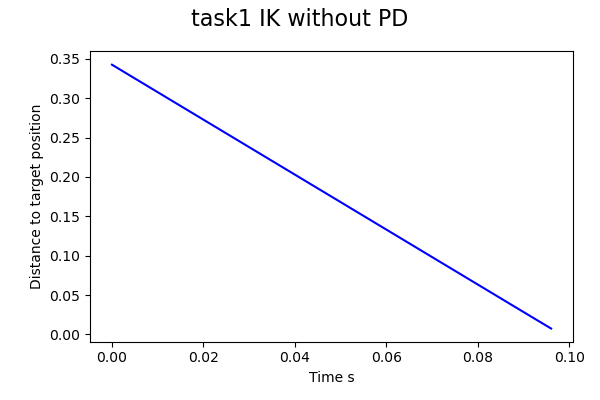
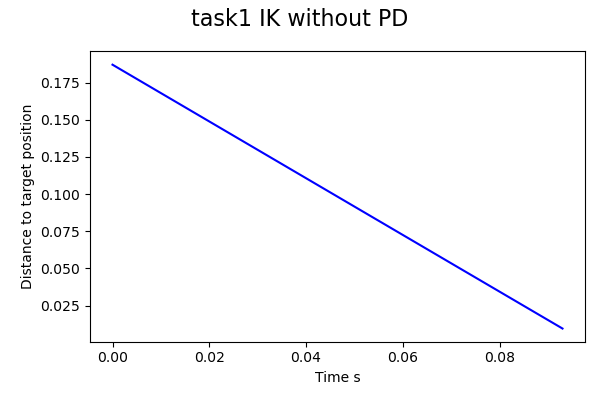
pathfinding

diff --git a/task1/task1.py b/task1/task1.py
@@ -70,8 +70,8 @@ def task32_pre():
         tpR = np.array([targetstatesR[s][0],targetstatesR[s][1],targetstatesR[s][2]])
         taroR = np.array([targetstatesR[s][3],targetstatesR[s][4],targetstatesR[s][5]])
 
-        sim.move_without_PD("LARM_JOINT5", targetPosition=tpL, speed=0.01, orientation=taroL, threshold=1e-2, maxIter=2, debug=False, verbose=False, task='task_32')
-        sim.move_without_PD("RARM_JOINT5", targetPosition=tpR, speed=0.01, orientation=taroR, threshold=1e-2, maxIter=2, debug=False, verbose=False, task='task_32')
+        sim.move_with_PD("LARM_JOINT5", targetPosition=tpL, speed=0.01, orientation=taroL, threshold=1e-2, maxIter=2, debug=False, verbose=False, task='task_32')
+        sim.move_with_PD("RARM_JOINT5", targetPosition=tpR, speed=0.01, orientation=taroR, threshold=1e-2, maxIter=2, debug=False, verbose=False, task='task_32')
 
 
 def task31_pre():
@@ -83,7 +83,7 @@ def task31_pre():
     for s in targetstatesL:
         tp = np.array([s[0],s[1],s[2]])
         taro = np.array([s[3],s[4],s[5]])
-        sim.move_without_PD("LARM_JOINT5", targetPosition=tp, speed=0.01, orientation=taro, threshold=1e-2, maxIter=2, debug=False, verbose=False,task = "task_31")
+        sim.move_with_PD("LARM_JOINT5", targetPosition=tp, speed=0.01, orientation=taro, threshold=1e-2, maxIter=2, debug=False, verbose=False,task = "task_31")
 
 
 
@@ -93,10 +93,10 @@ ref = [0, 0, 1]
 sim = Simulation(pybulletConfigs, robotConfigs, refVect=ref)
 
 endEffector = "LARM_JOINT5"
-targetPosition = np.array([0.37, -0.23, 1.06])  # x,y,z coordinates in world frame
+  # x,y,z coordinates in world frame
 # Example code. Feel free to modify
-task31_pre()
-#pltTime, pltEFPosition = sim.move_without_PD(endEffector, targetPosition, speed=0.01, orientation=np.array([0,0,1]), threshold=1e-2, maxIter=100, debug=False, verbose=False)
+#task32_pre()
+pltTime, pltEFPosition = sim.move_without_PD(endEffector, targetPosition = np.array([0.37, 0.23, 1.06]), speed=0.01, orientation=np.array([0,0,1]), threshold=1e-2, maxIter=100, debug=False, verbose=False)
 
 # Now plot some graphs
 task1_figure_name = "task1_kinematics.png"

diff --git a/task3_1/task3_1_pushing.py b/task3_1/task3_1_pushing.py
@@ -8,7 +8,7 @@ abs_path = os.path.dirname(os.path.realpath(__file__))
 root_path = abs_path + '/..'
 core_path = root_path + '/core'
 sys.path.append(core_path)
-from Pybullet_Simulation import Simulation #type: ignore
+from Pybullet_Simulation import Simulation
 
 # specific settings for this task
 
@@ -41,7 +41,7 @@ robotConfigs = {
     "robotStartPos": [0, 0, 0.85],
     "robotStartOrientation": [0, 0, 0, 1],
     "fixedBase": True,
-    "colored": False
+    "colored": True
 }
 
 sim = Simulation(pybulletConfigs, robotConfigs)
@@ -86,23 +86,16 @@ def getReadyForTask():
         sim.tick()
         time.sleep(1./1000)
 
-    print(sim.getJointPosition("LARM_JOINT5"))
     return tableId, cubeId, targetId
 
 
 def solution():
-    endEffector = "LARM_JOINT5"
-    targetstates = sim.cubic_interpolation(np.array([[0.37,0.23,1,0,1,0],
-                                                 [0.17,0.23,1,0,1,0],
-                                                 [0.5,0,1,0,1,0]]),300)
-
-    for s in targetstates:
-        tp = np.array([s[0],s[1],s[2]])
-        taro = np.array([s[3],s[4],s[5]])
-        print(sim.getJointPosition(endEffector))
-        print()
-        sim.move_without_PD(endEffector, targetPosition=tp, speed=0.01, orientation=taro, threshold=1e-2, maxIter=20, debug=False, verbose=False, task='task_31')
-
+    # TODO: Add your code here
+    print()
+    print(sim.getJointPosition("LARM_JOINT5"))
+    sim.move_with_PD("LARM_JOINT5", targetPosition=np.array([0.37,0.23,0.9]), speed=0.01, orientation=np.array([0,1,0]), threshold=1e-2, maxIter=300, debug=False, verbose=False,task = "task_31")
+    print()
+    print(sim.getJointPosition("LARM_JOINT5"))
 
 tableId, cubeId, targetId = getReadyForTask()
 solution()

diff --git a/core/Pybullet_Simulation.py b/core/Pybullet_Simulation.py
@@ -343,7 +343,7 @@ class Simulation(Simulation_base):
             u(t) - the manipulation signal
         """
         # COMPLETE: Add your code here
-        u = kp*(x_ref - x_real) - kd*(dx_real-dx_ref) + ki*integral
+        u = kp*(x_ref - x_real) + kd*(dx_ref-dx_real) + ki*integral
         return u
 
     # Task 2.2 Joint Manipulation
@@ -466,6 +466,7 @@ class Simulation(Simulation_base):
 
             ### Implement your code from here ... ###
             # TODO: obtain torque from PD controller
+            torque = 0
             torque = self.calculateTorque(self.jointTargetPos[joint], self.getJointPos(joint), 0,  (self.getJointPos(joint) - self.jointPositionOld[joint])/self.dt, 0, kp, ki, kd)
             ### ... to here ###
 

diff --git a/task3_1/task3_1_pushing_template.py b/task3_1/task3_1_pushing_template.py
@@ -8,7 +8,7 @@ abs_path = os.path.dirname(os.path.realpath(__file__))
 root_path = abs_path + '/..'
 core_path = root_path + '/core'
 sys.path.append(core_path)
-from Pybullet_Simulation import Simulation #type: ignore
+from Pybullet_Simulation import Simulation
 
 # specific settings for this task
 

diff --git a/task3_2/task3_2_docking_template.py b/task3_2/task3_2_docking_template.py
@@ -8,7 +8,7 @@ abs_path = os.path.dirname(os.path.realpath(__file__))
 root_path = abs_path + '/..'
 core_path = root_path + '/core'
 sys.path.append(core_path)
-from Pybullet_Simulation import Simulation #type: ignore
+from Pybullet_Simulation import Simulation
 
 # specific settings for this task
 
